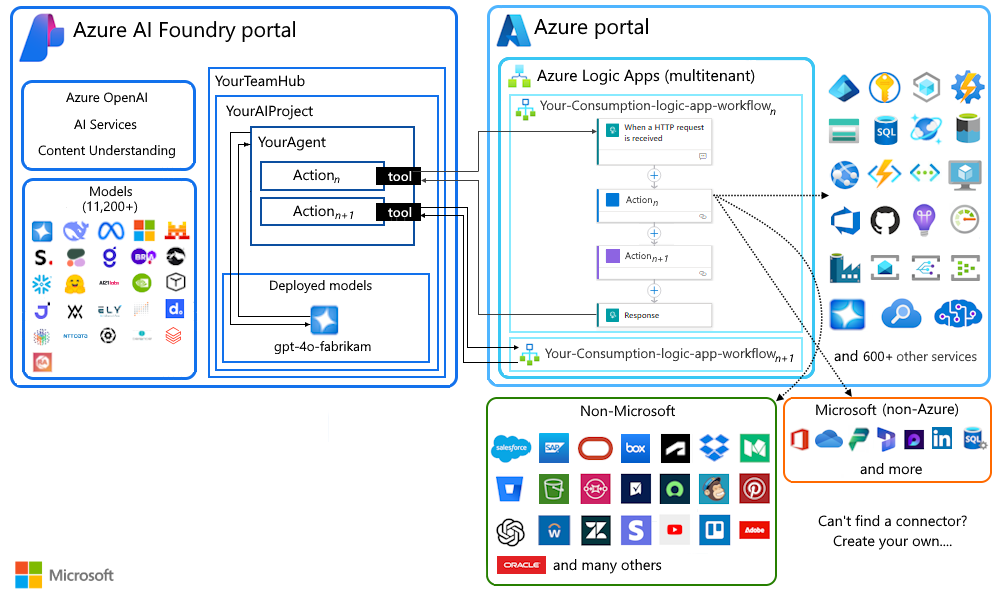
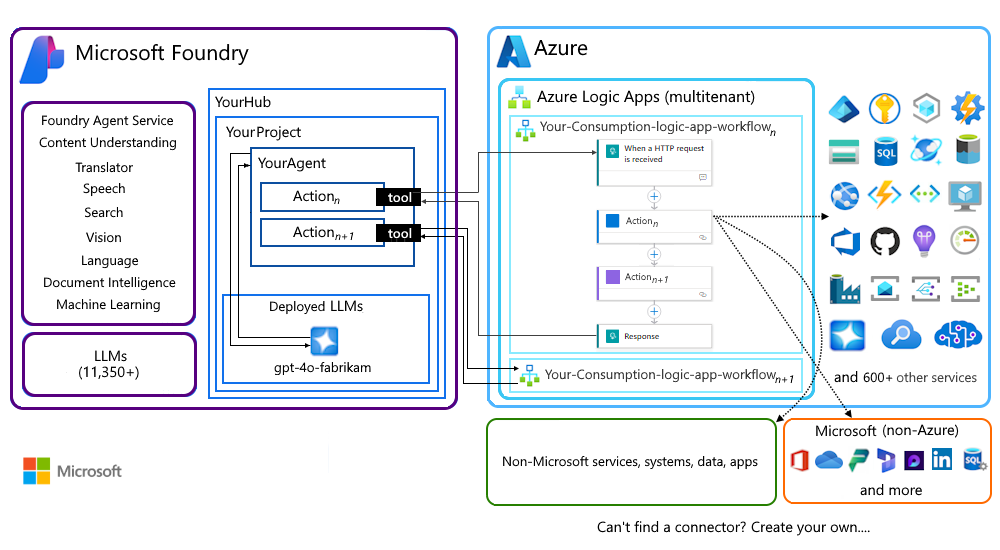
Update art with current names and other clarity edits

Changed region(s): [[0.0, 0.0, 0.992, 0.9891], [0.0, 0.9273, 0.124, 0.9891], [0.0, 0.8345, 0.124, 0.8964]]

diff --git a/articles/logic-apps/add-agent-action-create-run-workflow.md b/articles/logic-apps/add-agent-action-create-run-workflow.md
@@ -7,14 +7,15 @@ ms.suite: integration
 ms.reviewers: estfan, divswa, psamband, aahi, azla
 ms.topic: how-to
 ms.collection: ce-skilling-ai-copilot
+ai-usage: ai-assisted
 ms.date: 02/03/2026
 ms.update-cycle: 180-days
-# Customer intent: As an integration solutions developer working with Microsoft Foundry and Azure Logic Apps, I want to add an action to an agent in Microsoft Foundry so that the agent creates and runs an automated integration workflow in Azure Logic Apps.
+# Customer intent: As an AI and integration solutions developer who works with Microsoft Foundry and Azure Logic Apps, I want to add an action to an agent in Foundry that runs an automated integration workflow in Azure Logic Apps.
 ms.custom:
   - build-2025
 ---
 
-# Run automation workflows from actions in agents with Microsoft Foundry and Azure Logic Apps (preview)
+# Run automation and integration workflows from agents in Microsoft Foundry by using Azure Logic Apps (preview)
 
 [!INCLUDE [logic-apps-sku-consumption](includes/logic-apps-sku-consumption.md)]
 
@@ -23,15 +24,17 @@ ms.custom:
 > This feature is in preview, might incur charges, and is subject to the
 > [Supplemental Terms of Use for Microsoft Azure Previews](https://azure.microsoft.com/support/legal/preview-supplemental-terms/).
 
-For AI apps in Microsoft Foundry that need to automate multi-step processes or integrate with various services, systems, apps, and data sources, you can add *actions* to *agents* in Foundry. Agents use actions and an AI model to autonomously or interactively complete a task. For example, agents can use actions to answer questions, get information, and perform other jobs by using AI models. These actions can also run automated *logic app workflows* in Azure Logic Apps.
+AI agents often need to work with external systems, such as call APIs, update systems, or coordinate multiple steps. However, when you mix agent and integration logic, or you directly embed integration logic in agent code, solutions become harder to maintain, test, update, and evolve. Agents can adeptly make decisions, but they aren't designed to manage retry attempts, long‑running steps, or external system failures.
 
-A logic app workflow automates processes and can integrate Azure, Microsoft, and services, systems, apps, and data sources in other ecosystems - usually without any extra code. The workflow always starts with a prebuilt trigger and includes at least one action from a gallery with [1,400+ connectors](/connectors/) along with runtime-native, built-in operations.
+In Microsoft Foundry, AI agents can run multi-step processes or integrate with Azure, Microsoft, and external services, systems, apps, and data sources - often without extra code - when you connect agents to automated *logic app workflows* in Azure Logic Apps. To support this scenario, you can add predefined workflows as *actions* to your agents. This capability makes it possible for you to either add AI capabilities to solutions with integration logic you want to reuse, or to trigger existing workflows from an agent in Foundry.
 
-The following diagram shows how an action on an agent in Foundry relates to a workflow in Azure Logic Apps:
+The following diagram shows how an example action named `Get-weather-forecast-today` added to an agent named `WeatherAGent` in Foundry relates to a workflow named `Get-weather-forecast-today` in Azure Logic Apps:
 
-:::image type="content" source="media/add-agent-action-create-run-workflow/azure-ai-foundry-logic-apps-arch.png" alt-text="Architecture diagram shows Foundry portal with example AI agent and action connected to Azure portal with multitenant Azure Logic Apps and example logic app workflow that accesses external APIs." border="false" lightbox="media/add-agent-action-create-run-workflow/azure-ai-foundry-logic-apps-arch.png":::
+:::image type="content" source="media/add-agent-action-create-run-workflow/foundry-logic-apps-arch.png" alt-text="Architecture diagram shows Foundry with example AI agent and action connected to Azure with Azure Logic Apps and example workflow that calls external APIs." border="false" lightbox="media/add-agent-action-create-run-workflow/foundry-logic-apps-arch.png":::
 
-This guide shows how to add an action to an agent in Foundry so that the agent creates a Consumption logic app workflow that runs in multitenant Azure Logic Apps. A wizard guides you through the steps to set up this action with a predefined logic app workflow. After you finish adding the action, you can extend this workflow, based on your scenario's needs, by using the visual workflow designer in Azure Logic Apps.
+The agent focuses on choosing the correct action to call the integration workflow, while the workflow handles the orchestration and integration tasks.
+
+This guide shows how to add an action to an agent in Foundry. This action runs a predefined or preexisting workflow in Azure Logic Apps. A wizard walks you through the steps to set up this action. After you finish adding the action and based on your scenario's needs, you can edit or extend the workflow by using the visual workflow designer in Azure Logic Apps.
 
 > [!NOTE]
 >
@@ -43,6 +46,9 @@ For more information, see:
 - [Consumption logic app workflow - Hosting options](/azure/logic-apps/logic-apps-overview#create-and-deploy-to-different-environments)
 
 ## Prerequisites
+
+Each workflow always starts with a prebuilt trigger and includes at least one action from a gallery with [1,400+ connectors](/connectors/) and runtime-native, built-in operations.
+
 
 - An Azure account and subscription. [Get a free Azure account](https://azure.microsoft.com/pricing/purchase-options/azure-account?cid=msft_learn).
 
@@ -84,9 +90,9 @@ Yes, to make your own logic app workflows available through the actions gallery 
 
 - The workflow ends with the [**Response** action](/azure/connectors/connectors-native-reqres#add-a-response-action).
 
-Your AI app has almost endless options for running workflows that interact with Azure, Microsoft, and other services or products, plus operations that help you manage, shape, convert, and transform data. If no prebuilt connector exists for what you want to do, you can also create your own.
+Your agent has almost endless options for running workflows that interact with Azure, Microsoft, and other services or products, plus operations that help you manage, shape, convert, and transform data. If no prebuilt connector exists for what you want to do, you can also create your own.
 
-:::image type="content" source="media/add-agent-action-create-run-workflow/azure-ai-foundry-logic-apps-arch-full.png" alt-text="Architecture diagram shows Foundry portal with example AI agent and action connected to Azure portal with multitenant Azure Logic Apps and example logic app workflow that can access Azure, Microsoft, and REST APIs for other services and systems." border="false" lightbox="media/add-agent-action-create-run-workflow/azure-ai-foundry-logic-apps-arch-full.png":::
+:::image type="content" source="media/add-agent-action-create-run-workflow/foundry-logic-apps-arch-full.png" alt-text="Architecture diagram shows Foundry with example AI agent and action connected to Azure with multitenant Azure Logic Apps and example logic app workflow that can integration Azure, Microsoft, and REST APIs for other services and systems." border="false" lightbox="media/add-agent-action-create-run-workflow/foundry-logic-apps-arch-full.png":::
 
 For more information, see:
 
@@ -103,7 +109,7 @@ This release has the following limitations or known issues:
 
 | Limitation | Description |
 |------------|-------------|
-| Logic app workflow support | Agent actions currently support only Consumption logic app workflows in multitenant Azure Logic Apps. A Consumption logic app resource can have only one workflow. For more information, see [Hosting options for deployments](/azure/logic-apps/logic-apps-overview#create-and-deploy-to-different-environments). <br><br>Agent actions currently don't support Standard logic app workflows in single-tenant Azure Logic Apps, App Service Environments, or hybrid deployments. A Standard logic app can have multiple workflows. For more information, see [Hosting options for deployments](/azure/logic-apps/logic-apps-overview#create-and-deploy-to-different-environments). |
+| Logic app workflow support | Agent actions currently support only Consumption logic app workflows that run in multitenant Azure Logic Apps. A Consumption logic app resource can have only one workflow. For more information, see [Hosting options for deployments](/azure/logic-apps/logic-apps-overview#create-and-deploy-to-different-environments). <br><br>Agent actions currently don't support Standard logic app workflows in single-tenant Azure Logic Apps, App Service Environments, or hybrid deployments. A Standard logic app can have multiple workflows. For more information, see [Hosting options for deployments](/azure/logic-apps/logic-apps-overview#create-and-deploy-to-different-environments). |
 
 ## Add an action to your agent
 
